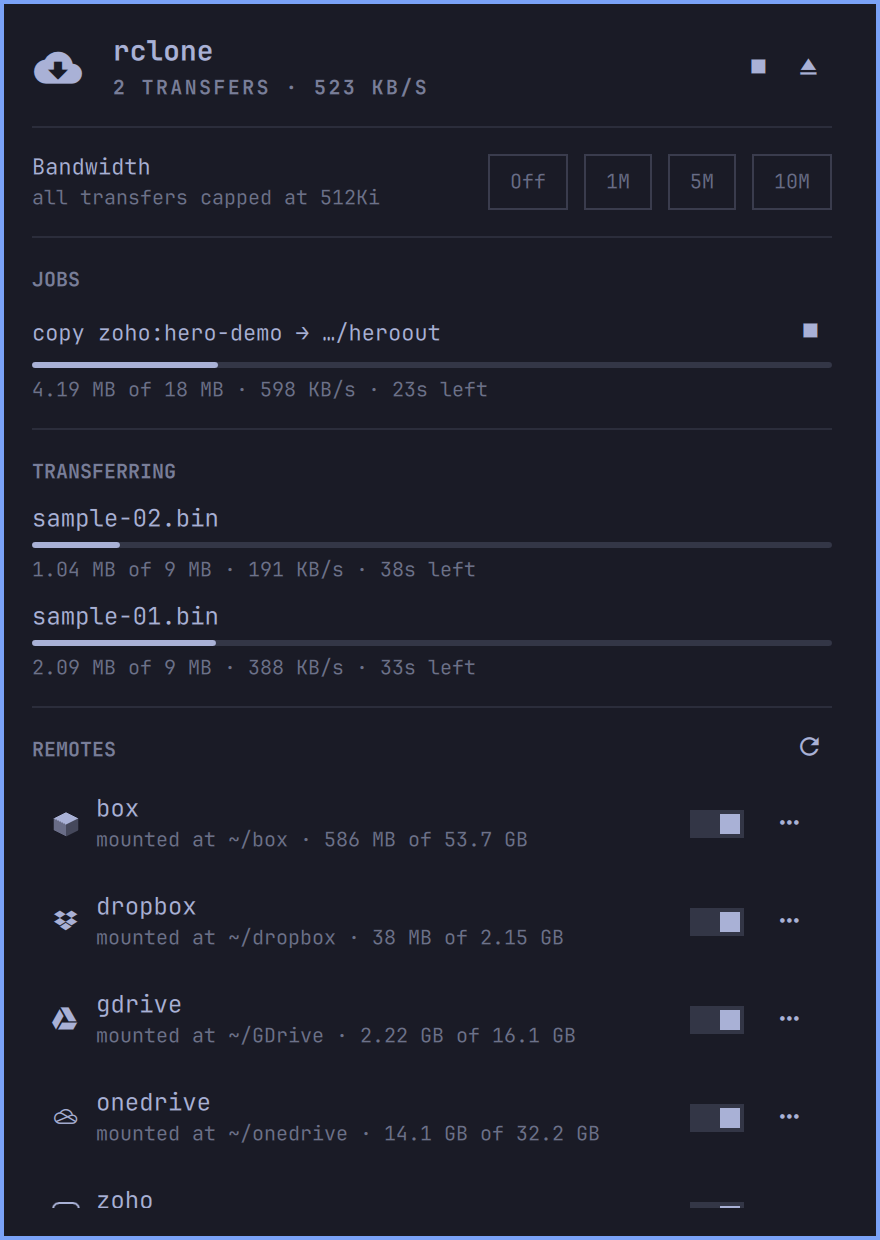
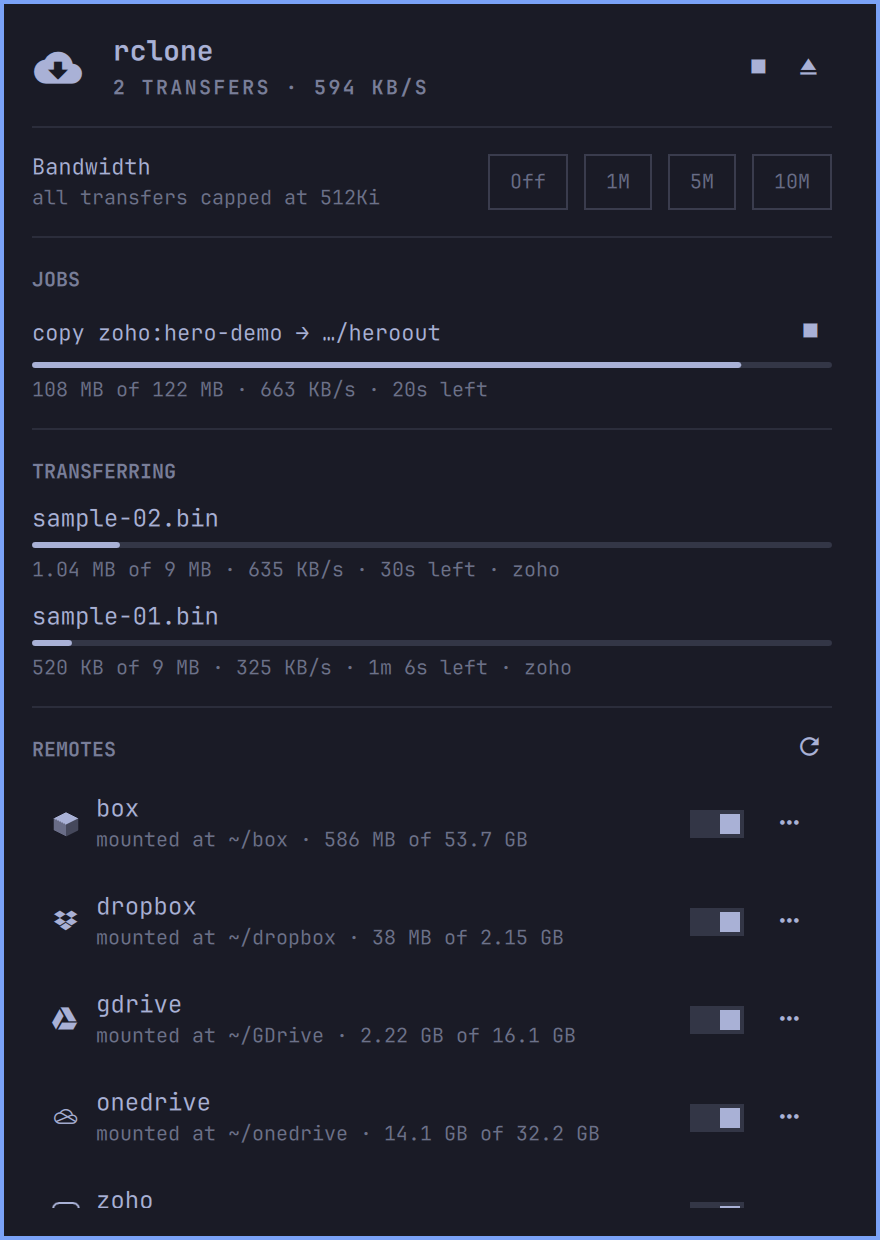
Name the remote on in-flight transfers
transferring_rows dropped srcFs/dstFs, so the panel could not resolve the
provider for a running transfer even though RECENT named it on the finished
one. The QML asked and always got nothing back.

diff --git a/test/model-test.js b/test/model-test.js
@@ -140,6 +140,24 @@ function eq(actual, expected, label) {
   eq(M.baseName("c.txt"), "c.txt", "basename of a bare name")
 }
 
+// ---- transferring rows -----------------------------------------------------
+// An in-flight transfer names its remote for the same reason RECENT does: with
+// several drives mounted, "9 MB · 191 KB/s" does not say which one is busy.
+{
+  const row = { bytes: 1_040_000, size: 9_000_000, speed: 191_000, eta: 38 }
+  eq(M.transferSubtitle(row, { name: "zoho" }),
+     "1.04 MB of 9 MB · 191 KB/s · 38s left · zoho",
+     "the remote is named LAST, matching RECENT's ordering")
+  eq(M.transferSubtitle(row), "1.04 MB of 9 MB · 191 KB/s · 38s left",
+     "an unresolved remote just leaves it off rather than printing 'undefined'")
+  eq(M.transferSubtitle(row, { name: "" }), "1.04 MB of 9 MB · 191 KB/s · 38s left",
+     "an empty name is treated as no name")
+  // A transfer that has not reported size or eta yet must not render stray
+  // separators around an otherwise empty subtitle.
+  eq(M.transferSubtitle({}, { name: "box" }), "box",
+     "with nothing else known, the remote stands alone")
+}
+
 // ---- job rows --------------------------------------------------------------
 // The label is the _group rclone-rc set: "<verb> <src> -> <dst>".
 {

diff --git a/Model.js b/Model.js
@@ -387,7 +387,7 @@ function transferRemote(row, remotes) {
   return remoteForFs(remotes, row.srcFs) || remoteForFs(remotes, row.dstFs)
 }
 
-function transferSubtitle(row) {
+function transferSubtitle(row, remote) {
   var parts = []
   var size = Number(row.size || 0)
   if (size > 0) parts.push(formatBytes(row.bytes) + " of " + formatBytes(size))
@@ -395,6 +395,12 @@ function transferSubtitle(row) {
   if (speed) parts.push(speed)
   var eta = formatEta(row.eta)
   if (eta) parts.push(eta + " left")
+  // Which remote this is moving through, LAST — the same position RECENT uses,
+  // so the eye finds the provider in one place across both lists. With more
+  // than one drive configured, "9 MB · 191 KB/s" alone does not say whether
+  // your upload or your backup is the thing saturating the link.
+  var provider = remote ? String(remote.name || "") : ""
+  if (provider) parts.push(provider)
   return parts.join(" · ")
 }
 

diff --git a/TransferRow.qml b/TransferRow.qml
@@ -12,6 +12,9 @@ Column {
 
   property var transfer: null
   property QtObject ui: null
+  // Resolved by the panel, not looked up here: the row has no service
+  // reference and RECENT already resolves its provider the same way.
+  property var remote: null
 
   spacing: Style.space(4)
 
@@ -44,7 +47,7 @@ Column {
 
   Text {
     width: parent.width
-    text: Model.transferSubtitle(root.transfer || {})
+    text: Model.transferSubtitle(root.transfer || {}, root.remote)
     color: ui ? ui.dim : Color.foreground
     font.family: ui ? ui.fontFamily : Style.font.family
     font.pixelSize: Style.font.caption

diff --git a/Panel.qml b/Panel.qml
@@ -722,6 +722,7 @@ Panel {
                 required property var modelData
                 width: column.width
                 transfer: modelData
+                remote: Model.transferRemote(modelData, rclone.remotes)
                 ui: theme
               }
             }

diff --git a/test/status-test.py b/test/status-test.py
@@ -109,7 +109,8 @@ eq(status.transferring_rows({"transferring": [{
     "name": "blob.bin", "bytes": 100, "size": 1000, "percentage": 10,
     "speed": 2.5, "eta": 30, "group": "job/7"}]}),
    [{"name": "blob.bin", "bytes": 100, "size": 1000, "percentage": 10,
-     "speed": 2.5, "eta": 30, "group": "job/7"}], "full row passes through")
+     "speed": 2.5, "eta": 30, "group": "job/7", "srcFs": "", "dstFs": ""}],
+   "full row passes through")
 eq(status.transferring_rows({}), [], "no transferring key")
 eq(status.transferring_rows({"transferring": None}), [], "null transferring")
 eq(status.transferring_rows({"transferring": ["not a dict", 5]}), [],
@@ -117,6 +118,20 @@ eq(status.transferring_rows({"transferring": ["not a dict", 5]}), [],
 row = status.transferring_rows({"transferring": [{"name": "x"}]})[0]
 eq((row["bytes"], row["size"], row["percentage"]), (0, 0, 0), "missing numbers default to 0")
 eq(row["eta"], None, "a missing eta stays None, NOT 0 — 0 would render as 'finishing now'")
+
+# ---- transferring rows carry their remote ----------------------------------
+# The panel names the provider on an in-flight transfer the same way RECENT
+# names it on a finished one — but it can only do that if these fields survive.
+# They were dropped here originally, so the QML asked and always got nothing.
+rows = status.transferring_rows({"transferring": [{
+    "name": "sample-01.bin", "bytes": 3141632, "size": 9000000,
+    "speed": 1380400.0, "eta": 3, "group": "copy zoho:hero-demo -> /tmp/out",
+    "srcFs": "zoho:hero-demo", "dstFs": "/tmp/out",
+}]})
+eq(rows[0]["srcFs"], "zoho:hero-demo", "the source fs survives into the row")
+eq(rows[0]["dstFs"], "/tmp/out", "so does the destination")
+eq(status.transferring_rows({"transferring": [{"name": "x"}]})[0]["srcFs"], "",
+   "a transfer with no fs reported yields empty strings, not None")
 
 # ---- transferred_rows ------------------------------------------------------
 # rclone returns oldest-first; the panel wants newest-first.

diff --git a/status.py b/status.py
@@ -236,6 +236,12 @@ def transferring_rows(stats):
             "speed": float(item.get("speed") or 0),
             "eta": item.get("eta"),
             "group": str(item.get("group", "")),
+            # Which remote this file is moving through. Dropped originally, so
+            # the panel could not name the provider on an in-flight transfer
+            # even though RECENT named it on the finished one — the QML asked
+            # for it and always got nothing back.
+            "srcFs": str(item.get("srcFs", "")),
+            "dstFs": str(item.get("dstFs", "")),
         })
     return rows
 
